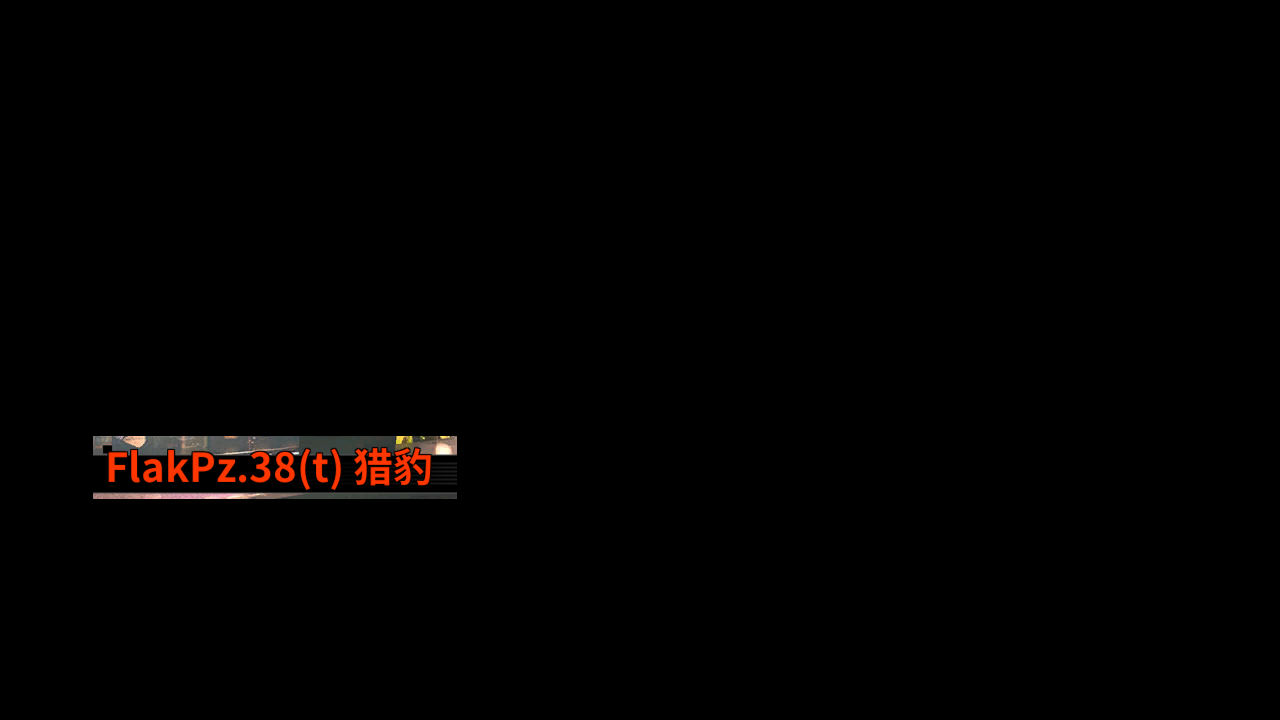
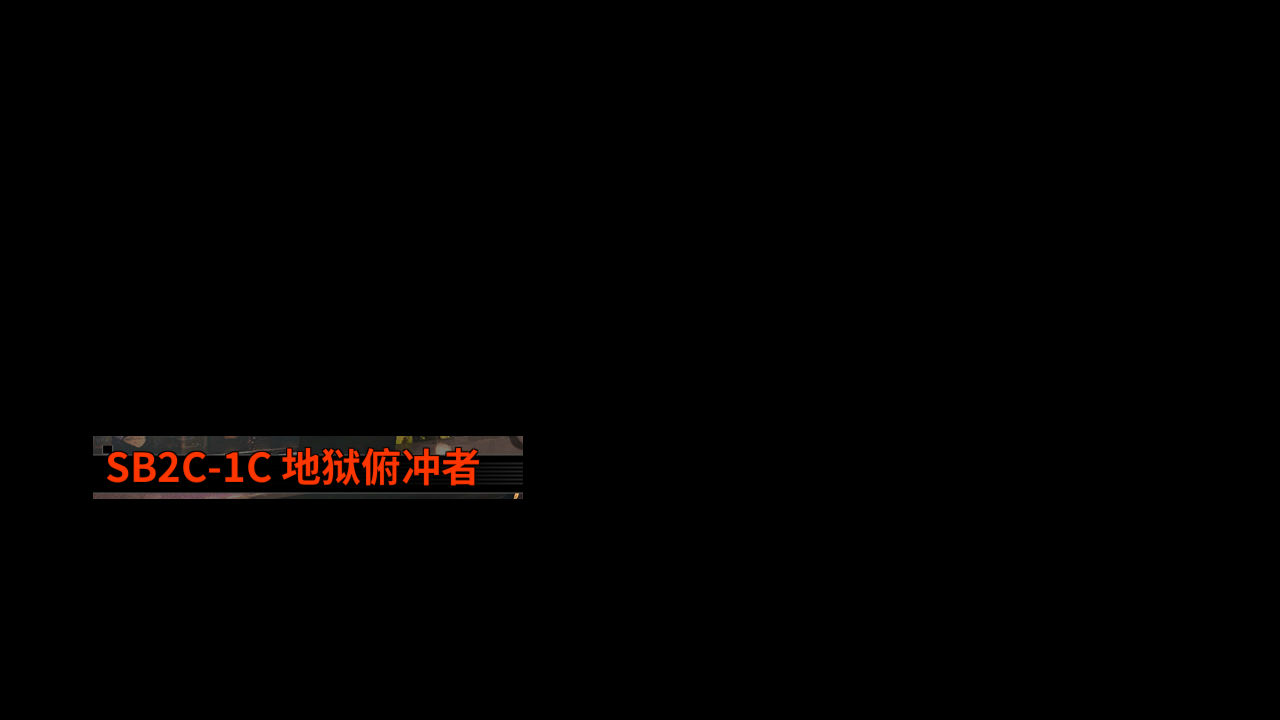
Upd: Add switch arms

Changed region(s): [[0.0625, 0.5806, 0.4062, 0.7028]]

diff --git a/submodule/AlasAaaBridge/module/bar/bar.py b/submodule/AlasAaaBridge/module/bar/bar.py
@@ -52,16 +52,25 @@ class Bar(UI):
 
     def _appear_BAR_CHECK(self, interval=None):
         # Maybe only one of them will show up
-        return self.appear(BAR_CHECK, offset=(20, 20), interval=interval) or \
+        result = self.appear(BAR_CHECK, offset=(20, 20), interval=interval) or \
             self.appear(BAR_CHECK_2, offset=(20, 20), interval=interval)
+        if result:
+            self.interval_reset((BAR_CHECK, BAR_CHECK_2), interval=interval)
+        return result
 
     def _appear_then_click_BAR_CHECK(self, interval=3):
-        return self.appear_then_click(BAR_CHECK, offset=(20 ,20), interval=interval) or \
+        result = self.appear_then_click(BAR_CHECK, offset=(20 ,20), interval=interval) or \
             self.appear_then_click(BAR_CHECK_2, offset=(20 ,20), interval=interval)
+        if result:
+            self.interval_reset((BAR_CHECK, BAR_CHECK_2), interval=interval)
+        return result
 
     def _appear_BAR_GIFTS_DETAILS(self, interval=None):
-        return self.appear(BAR_GIFTS_GIVE_CHECK, offset=(20, 20), interval=interval) or \
+        result = self.appear(BAR_GIFTS_GIVE_CHECK, offset=(20, 20), interval=interval) or \
             self.appear(BAR_GIFTS_GIVE, offset=(20, 20), interval=interval)
+        if result:
+            self.interval_reset((BAR_GIFTS_GIVE_CHECK, BAR_GIFTS_GIVE), interval=interval)
+        return result
 
     def ensure_bar(self, skip_first_screenshot=True):
         """
@@ -108,6 +117,7 @@ class Bar(UI):
     def get_gifts(self, ocr_result):
         return sum([int(amount) if amount else 0 for amount in ocr_result])
 
+    # TODO Rewrite
     def check_gifts_amount(self):
         """
         Decide how much to give based on amount of gifts,
@@ -122,6 +132,7 @@ class Bar(UI):
             (bool): Whether to return to bar page redisplay gift list
         """
         weekly_need = WEEKLY_GIFTS - self.config.AaaBarGiveGifts_GiftsGiven
+        weekly_need = weekly_need if weekly_need > 0 else 0
         daily_need = self.config.AaaBarGiveGifts_GiveCount - self._gifts_given
         logger.attr("weekly_need", weekly_need)
         logger.attr("daily_need", daily_need)
@@ -130,9 +141,12 @@ class Bar(UI):
             count = max(weekly_need, self.config.AaaBarGiveGifts_WeeklyTaskFinish)
         elif daily_need > 0:
             count = self.config.AaaBarGiveGifts_GiveCount
+        else:
+            count = 0
         logger.attr("gifts need", count)
         result = OCR_GIFTS.ocr(self.device.image)
         self._last_gifts = gifts = self.get_gifts(result)
+        logger.attr("gifts", gifts)
 
         # If gifts is less than daily need
         if gifts < daily_need:
@@ -161,6 +175,37 @@ class Bar(UI):
             return 0
         return count
 
+    def switch_arms(self, skip_first_screenshot=True):
+        if self._last_arms is None:
+            self._last_arms = OCR_NAME.ocr(self.device.image)
+        level = OCR_AFFINITY_LEVEL.ocr(self.device.image)
+        logger.attr("affinity", level)
+        if level < 5:
+            return False
+        count = 0
+        max_count = 10
+        while 1:
+            if skip_first_screenshot:
+                skip_first_screenshot = False
+            else:
+                self.device.screenshot()
+
+            if self._appear_BAR_CHECK(interval=3) or \
+                self.appear(BAR_GIFTS_GRID_CHECK, offset=(20, 20), interval=3):
+                arms = OCR_NAME.ocr(self.device.image)
+                level = OCR_AFFINITY_LEVEL.ocr(self.device.image)
+                if arms != self._last_arms:
+                    self._last_arms = arms
+                    count += 1
+                if level < 5:
+                    self.interval_clear((BAR_CHECK, BAR_CHECK_2))
+                    return True
+                if count > max_count:
+                    raise
+                if arms == self._last_arms or level == 5:
+                    self.device.click(BAR_SWITCH_LEFT)
+                    continue
+
     def set_dif(self, difference, gifts):
         logger.attr("difference", difference)
         logger.attr("gifts", gifts)
@@ -175,11 +220,20 @@ class Bar(UI):
         skip_ocr = False
         gift_idx = difference = 0
         button = GIFTS_GRID.buttons[gift_idx]
+        wait_gifts_gird = Timer(1).start()
         while 1:
             if skip_first_screenshot:
                 skip_first_screenshot = False
             else:
                 self.device.screenshot()
+
+            # Affinity be already full
+            if self.appear(BAR_AFFINITY_POPUP_INFO, offset=(20, 20), interval=3):
+                if self.config.AaaBarGiveGifts_SwitchArms:
+                    return count
+                else:
+                    self.device.click(BAR_AFFINITY_POPUP_COMFIRM)
+                    continue
 
             if not skip_ocr:
                 result = OCR_GIFTS.ocr(self.device.image)
@@ -187,7 +241,7 @@ class Bar(UI):
                     gift_idx += 1
                     if gift_idx > 8:  # 8 is ninth gift
                         logger.info("9 gifts use up")
-                        return 0
+                        return True
                     button = GIFTS_GRID.buttons[gift_idx]
                 gifts = self.get_gifts(result)
                 difference = self._last_gifts - gifts
@@ -197,7 +251,8 @@ class Bar(UI):
                 count -= difference  # end task
                 difference = 0
 
-            if not self._appear_BAR_GIFTS_DETAILS(interval=3) and count:
+            if wait_gifts_gird.reached_and_reset() and \
+               not self._appear_BAR_GIFTS_DETAILS(interval=3) and count:
                 self.device.click(button)
                 skip_ocr = True
                 continue
@@ -220,17 +275,18 @@ class Bar(UI):
         """
         if count <= 0:
             return False
-        # wait_give_ui = Timer(0.5).start()
-        logger.attr("give count", count)
+        self.interval_clear(BAR_GIFTS_GRID_CHECK)
+        self._last_arms = OCR_NAME.ocr(self.device.image)
+        switch_arms = True
+        wait_give_detail = Timer(1).start()
         while 1:
             if skip_first_screenshot:
                 skip_first_screenshot = False
             else:
                 self.device.screenshot()
 
-            if self.appear(BAR_GIFTS_GRID_CHECK, offset=(20, 20), interval=3) \
+            if wait_give_detail.reached_and_reset() and self.appear(BAR_GIFTS_GRID_CHECK, offset=(20, 20), interval=3) \
                and not self._appear_BAR_GIFTS_DETAILS(interval=3):
-                # if wait_give_ui.reached_and_reset():
                 self.device.click(GIFTS_FIRST_BUTTON)
                 continue
 
@@ -238,12 +294,21 @@ class Bar(UI):
             if self._appear_BAR_CHECK():
                 break
 
-            # TODO switch arms
+            if self.appear(BAR_AFFINITY_POPUP_INFO, offset=(20, 20), interval=3):
+                self.device.click(BAR_AFFINITY_POPUP_CANCEL)
+                switch_arms = True
+                continue
+            if switch_arms:
+                self.switch_arms()
+                skip_first_screenshot = True
+                switch_arms = False
 
             if self._appear_BAR_GIFTS_DETAILS():
-                self._gifts_give_once(count)
-                self.ensure_bar()
-                break
+                logger.attr("arms", self._last_arms)
+                logger.attr("give count", count)
+                if not self._gifts_give_once(count):
+                    self.ensure_bar()
+                    break
 
     def bar_give_gift(self, skip_first_screenshot=True):
         """
@@ -253,6 +318,7 @@ class Bar(UI):
         """
         logger.hr("give gift", level=1)
         self.ensure_bar()
+        logger.attr("gifts given", self.config.AaaBarGiveGifts_GiftsGiven)
         self.interval_clear((BAR_CHECK, BAR_CHECK_2))
         wait_gifts_gird = Timer(1).start()
         while 1:
@@ -278,14 +344,6 @@ class Bar(UI):
 
     def bar_arms_touch(self):
         self.ensure_bar()
-
-    def test(self):
-        while 1:
-            self.device.screenshot()
-
-            if self.appear(BAR_GIFTS_GRID_CHECK, offset=(20, 20), interval=3):
-                logger.info("BAR_GIFTS_GRID_CHECK")
-
 
     def run(self):
         self._check_weekly()

diff --git a/submodule/AlasAaaBridge/module/bar/assets.py b/submodule/AlasAaaBridge/module/bar/assets.py
@@ -4,6 +4,9 @@ from module.base.template import Template
 # This file was automatically generated by dev_tools/button_extract.py.
 # Don't modify it manually.
 
+BAR_AFFINITY_POPUP_CANCEL = Button(area={'cn': (537, 457, 659, 521)}, color={'cn': (193, 126, 18)}, button={'cn': (537, 457, 659, 521)}, file={'cn': './submodule/AlasAaaBridge/assets/cn/bar/BAR_AFFINITY_POPUP_CANCEL.png'})
+BAR_AFFINITY_POPUP_COMFIRM = Button(area={'cn': (699, 457, 887, 521)}, color={'cn': (201, 64, 41)}, button={'cn': (699, 457, 887, 521)}, file={'cn': './submodule/AlasAaaBridge/assets/cn/bar/BAR_AFFINITY_POPUP_COMFIRM.png'})
+BAR_AFFINITY_POPUP_INFO = Button(area={'cn': (424, 253, 464, 272)}, color={'cn': (35, 115, 112)}, button={'cn': (424, 253, 464, 272)}, file={'cn': './submodule/AlasAaaBridge/assets/cn/bar/BAR_AFFINITY_POPUP_INFO.png'})
 BAR_ARMS_FILTER = Button(area={'cn': (544, 35, 570, 54)}, color={'cn': (77, 60, 14)}, button={'cn': (544, 35, 570, 54)}, file={'cn': './submodule/AlasAaaBridge/assets/cn/bar/BAR_ARMS_FILTER.png'})
 BAR_CHECK = Button(area={'cn': (1180, 600, 1241, 657)}, color={'cn': (87, 77, 52)}, button={'cn': (1180, 600, 1241, 657)}, file={'cn': './submodule/AlasAaaBridge/assets/cn/bar/BAR_CHECK.png'})
 BAR_CHECK_2 = Button(area={'cn': (1064, 599, 1125, 656)}, color={'cn': (109, 82, 61)}, button={'cn': (1064, 599, 1125, 656)}, file={'cn': './submodule/AlasAaaBridge/assets/cn/bar/BAR_CHECK_2.png'})
@@ -15,4 +18,4 @@ BAR_MENU = Button(area={'cn': (333, 225, 367, 257)}, color={'cn': (211, 56, 144)
 BAR_SWITCH_LEFT = Button(area={'cn': (18, 289, 58, 351)}, color={'cn': (111, 109, 99)}, button={'cn': (18, 289, 58, 351)}, file={'cn': './submodule/AlasAaaBridge/assets/cn/bar/BAR_SWITCH_LEFT.png'})
 OCR_BAR_AFFINITY = Button(area={'cn': (287, 102, 392, 135)}, color={'cn': (43, 44, 43)}, button={'cn': (287, 102, 392, 135)}, file={'cn': './submodule/AlasAaaBridge/assets/cn/bar/OCR_BAR_AFFINITY.png'})
 OCR_BAR_AFFINITY_LEVEL = Button(area={'cn': (161, 118, 180, 140)}, color={'cn': (92, 86, 63)}, button={'cn': (161, 118, 180, 140)}, file={'cn': './submodule/AlasAaaBridge/assets/cn/bar/OCR_BAR_AFFINITY_LEVEL.png'})
-OCR_BAR_ARMS_NAME = Button(area={'cn': (93, 436, 457, 499)}, color={'cn': (91, 48, 35)}, button={'cn': (93, 436, 457, 499)}, file={'cn': './submodule/AlasAaaBridge/assets/cn/bar/OCR_BAR_ARMS_NAME.png'})
+OCR_BAR_ARMS_NAME = Button(area={'cn': (93, 436, 523, 499)}, color={'cn': (73, 31, 19)}, button={'cn': (93, 436, 523, 499)}, file={'cn': './submodule/AlasAaaBridge/assets/cn/bar/OCR_BAR_ARMS_NAME.png'})
